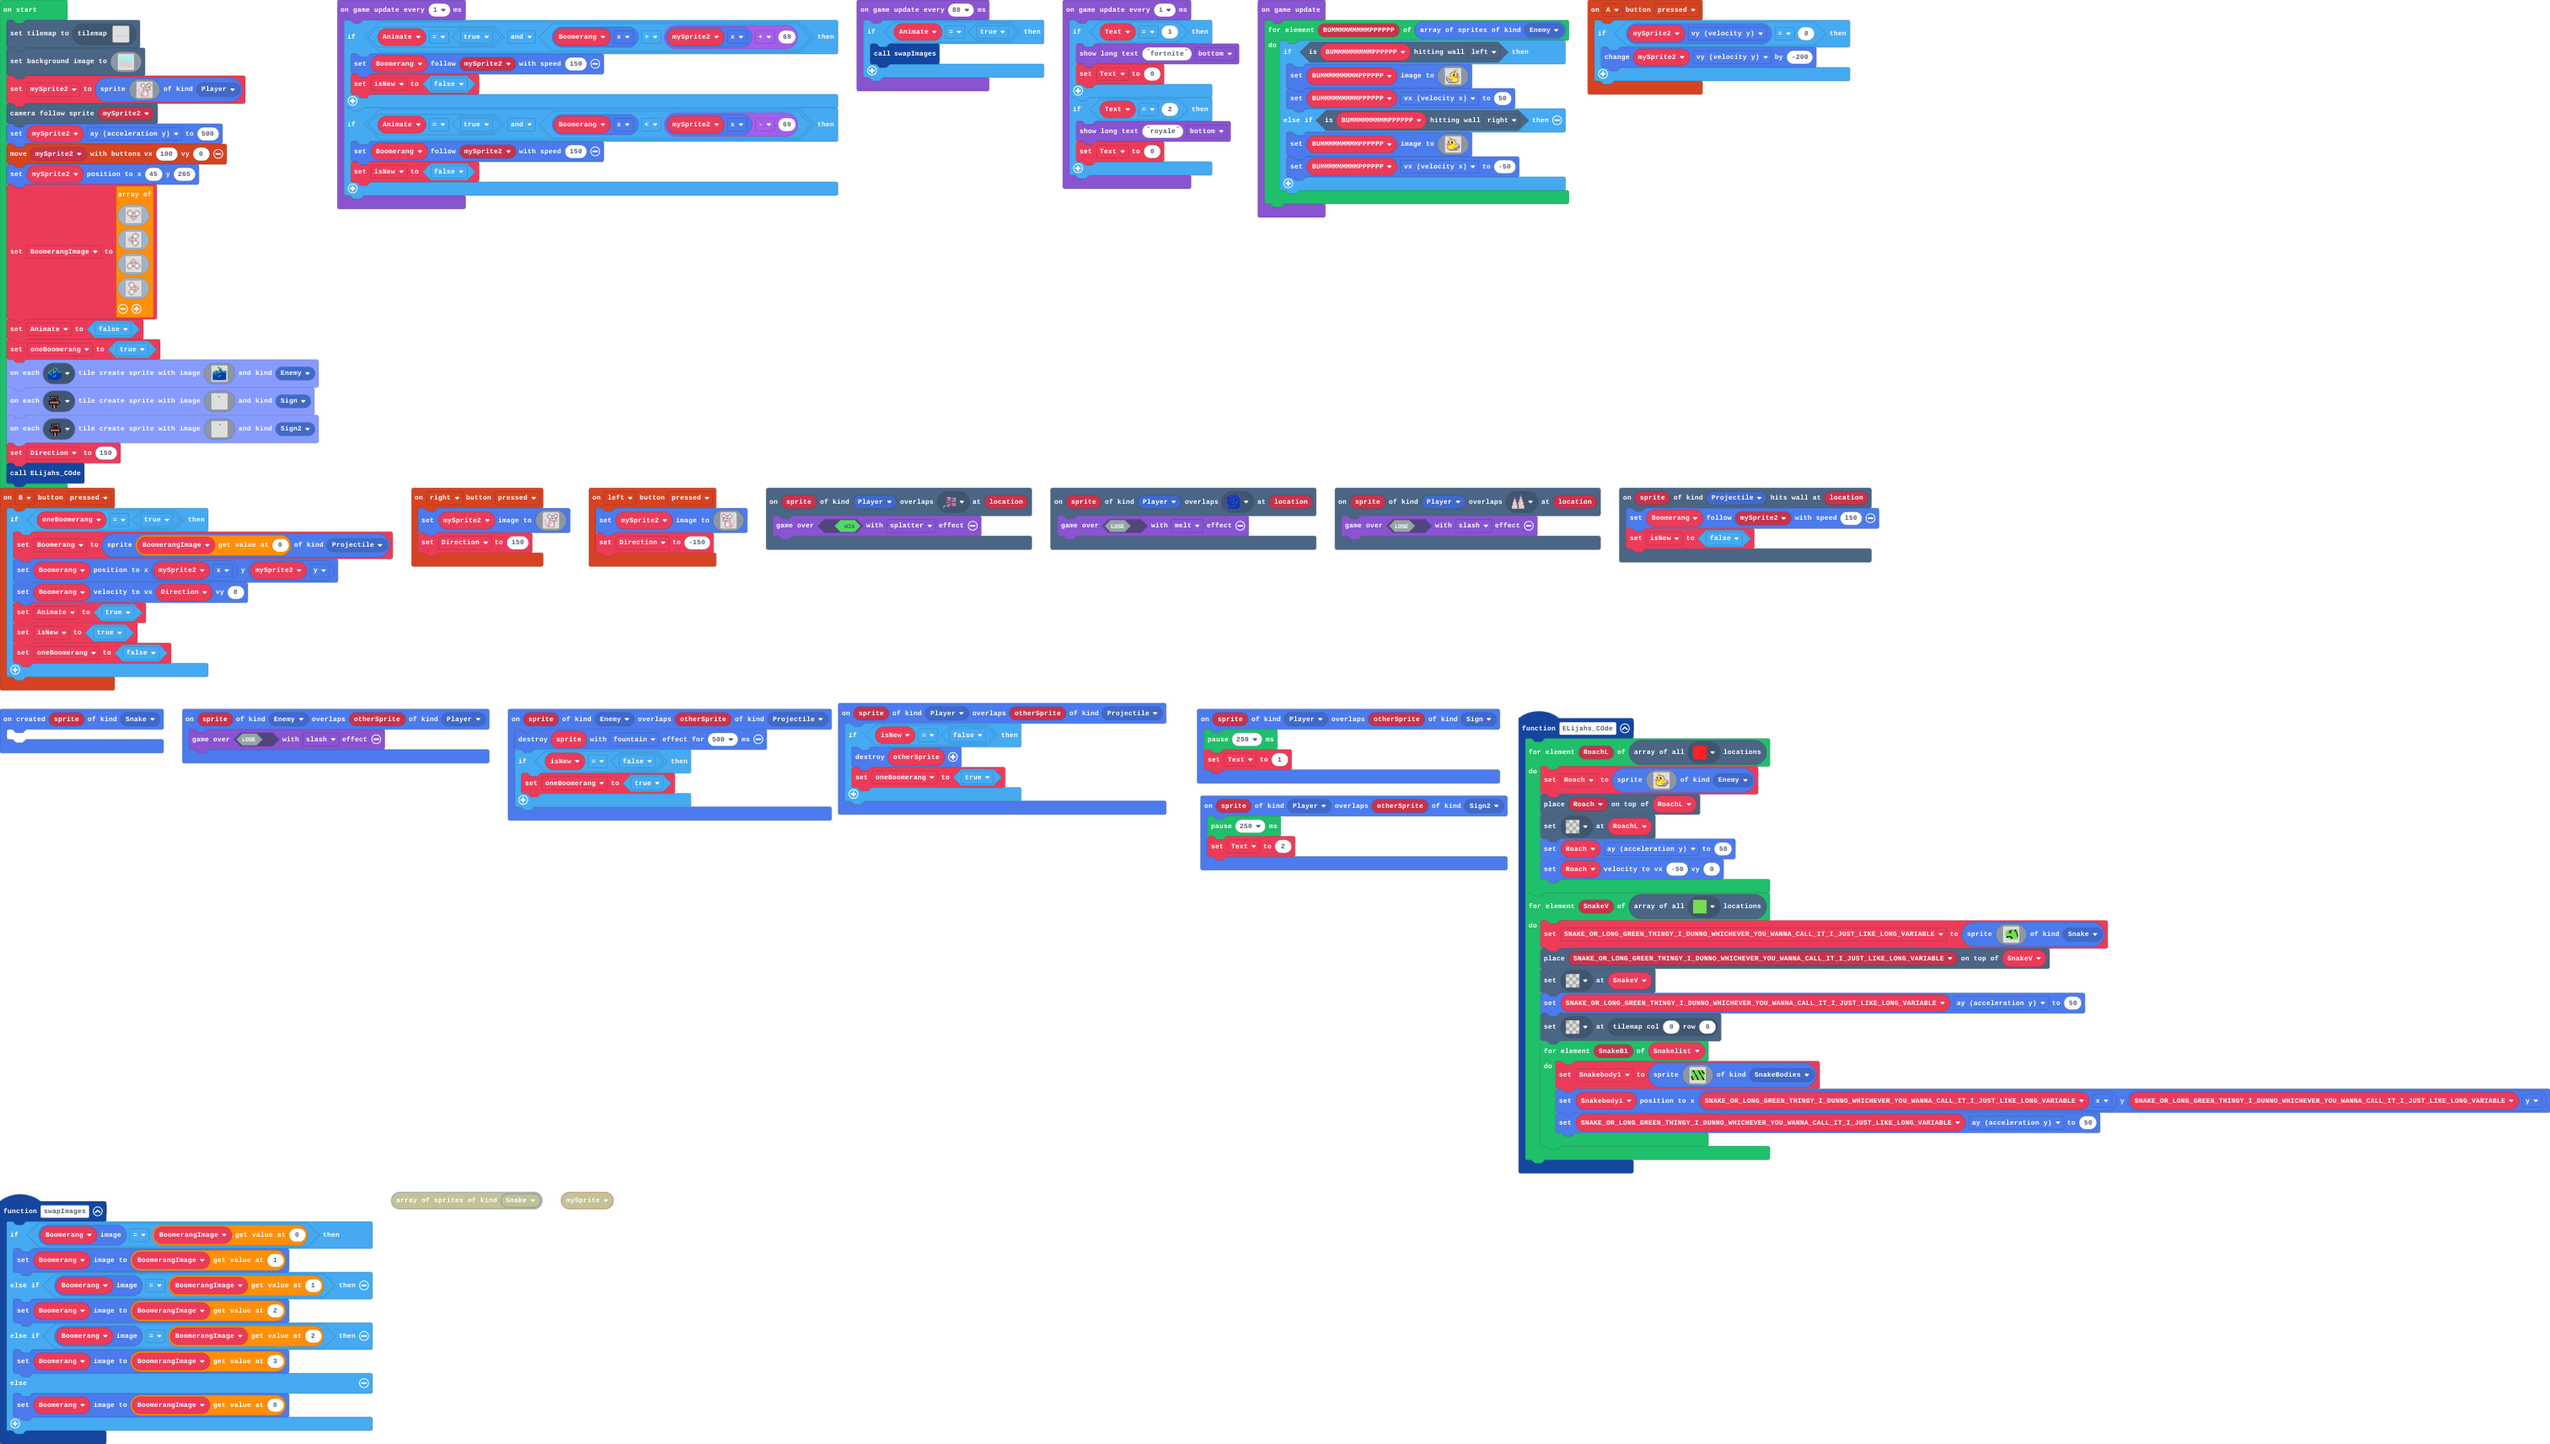
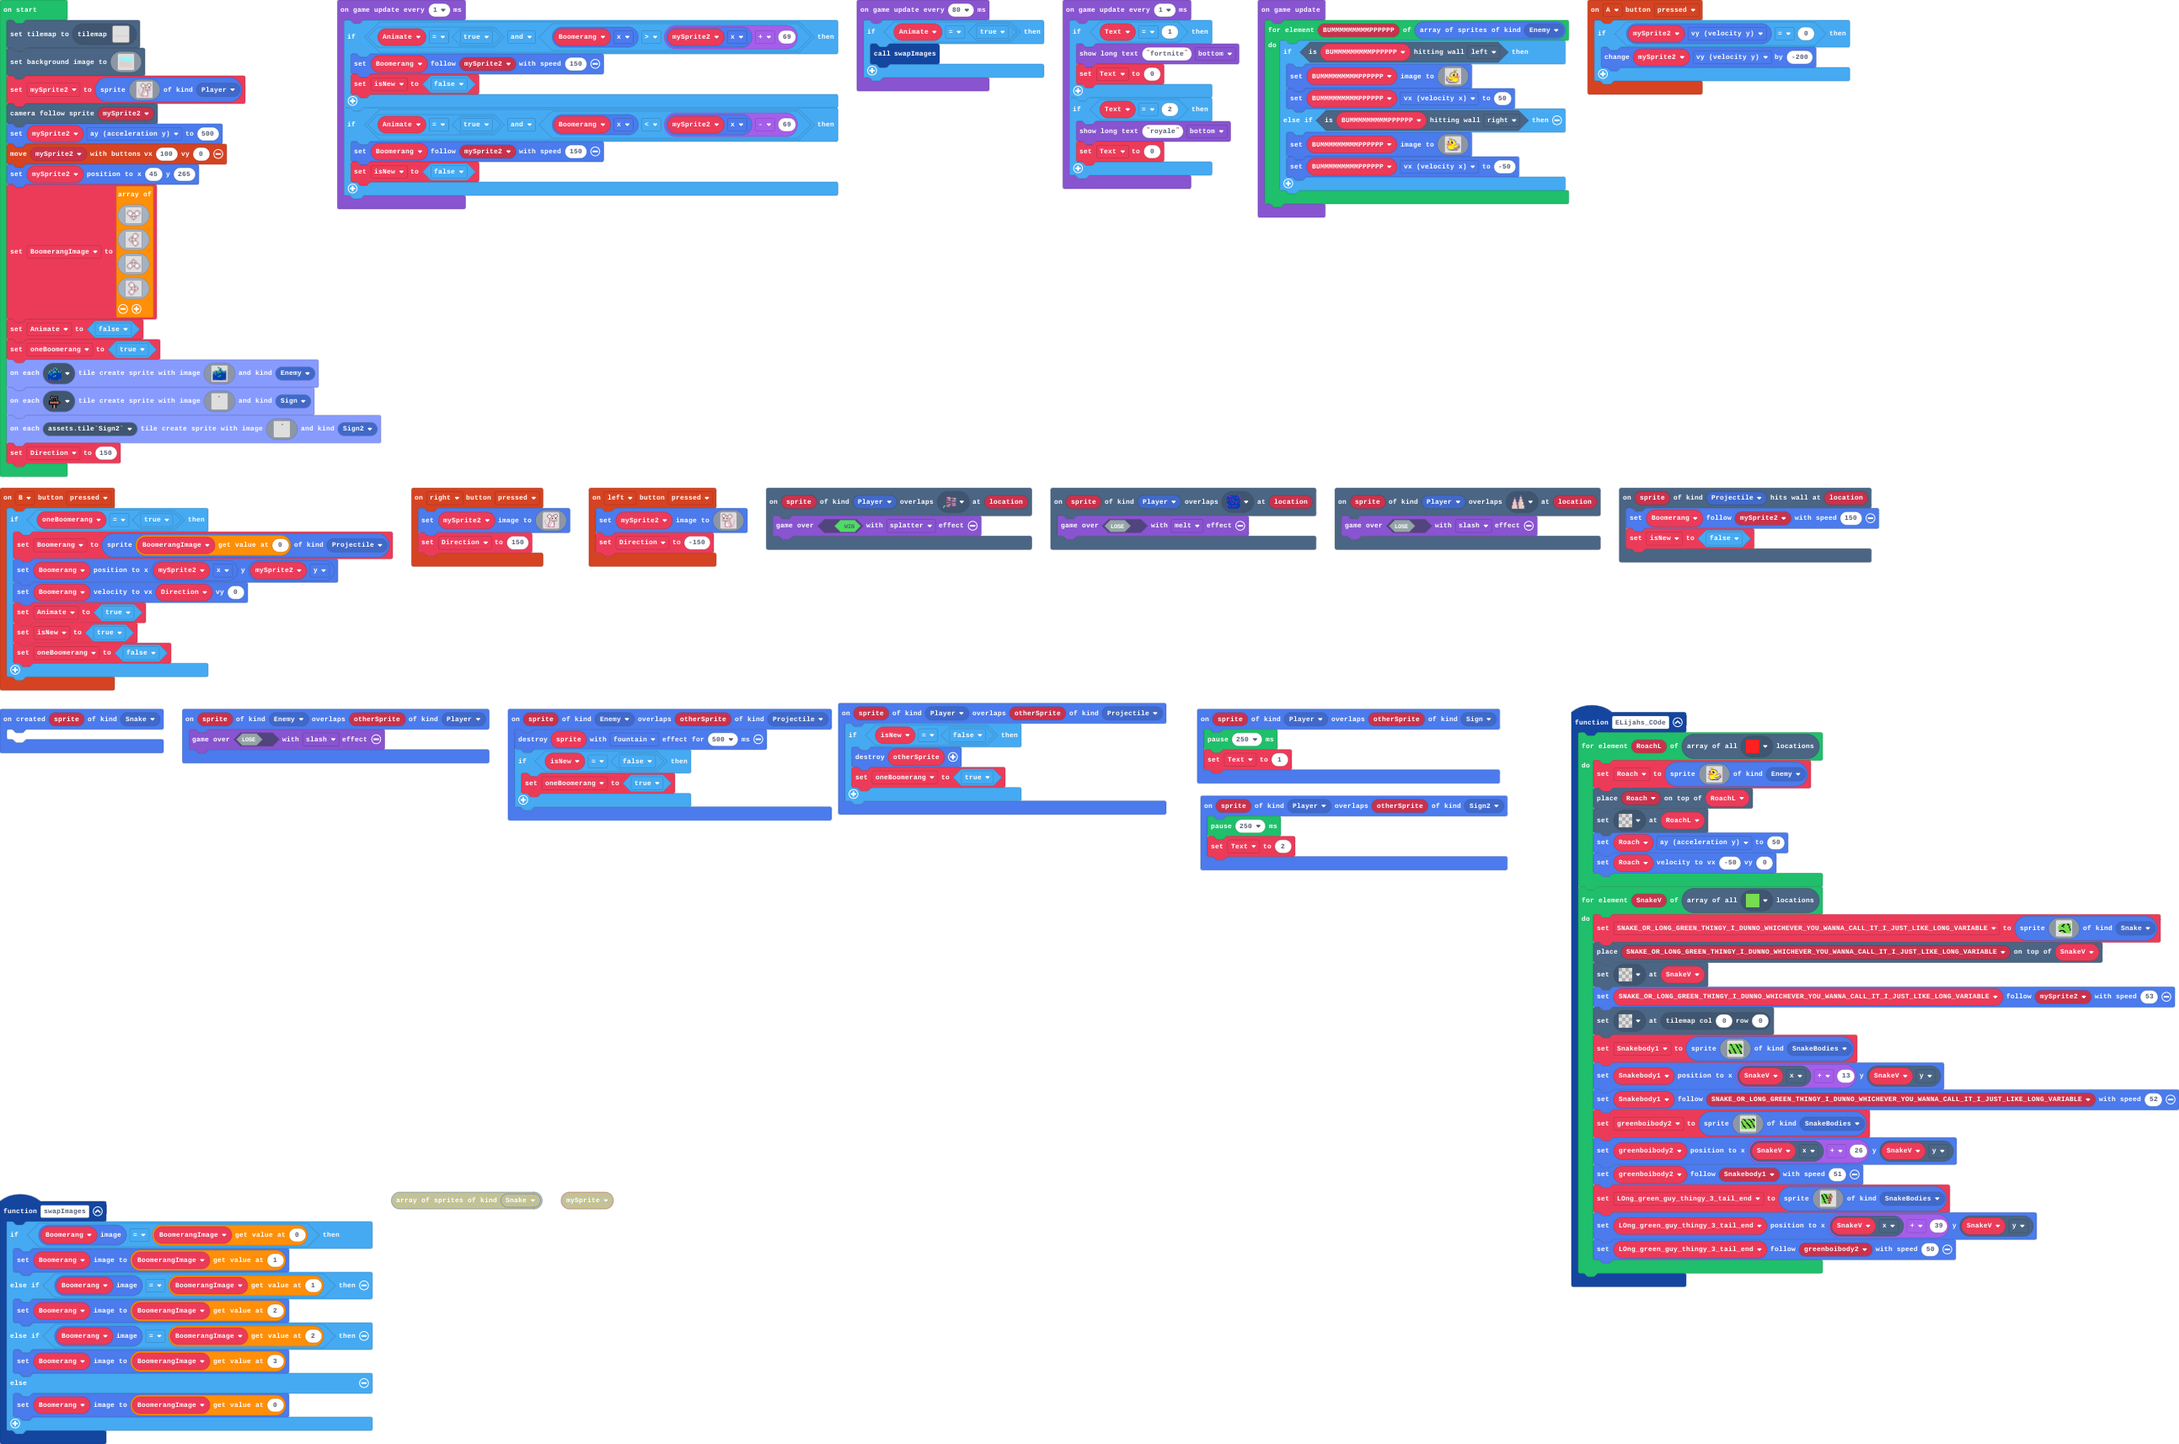
Update main.blocks, main.ts, tilemap.g.jres, tilemap.g.ts

Changed region(s): [[0.0, 0.0, 1.0, 0.8967], [0.0, 0.804, 0.2784, 1.0]]

diff --git a/tilemap.g.ts b/tilemap.g.ts
@@ -26,8 +26,6 @@ namespace myTiles {
     export const tile11 = image.ofBuffer(hex``);
     //% fixedInstance jres blockIdentity=images._tile
     export const tile12 = image.ofBuffer(hex``);
-    //% fixedInstance jres blockIdentity=images._tile
-    export const tile13 = image.ofBuffer(hex``);
 
     helpers._registerFactory("tilemap", function(name: string) {
         switch(helpers.stringTrim(name)) {
@@ -74,7 +72,7 @@ namespace myTiles {
 22222222222222222222222222222222222222222222222222
 `, [myTiles.transparency16,sprites.dungeon.floorLight0,sprites.dungeon.floorLight1,sprites.dungeon.floorLight4,myTiles.tile3,sprites.dungeon.floorLightMoss,sprites.dungeon.floorLight5,myTiles.tile7], TileScale.Sixteen);
             case "level0":
-            case "level3":return tiles.createTilemap(hex`3200140000000000000000000000000000000000000000000000000000000000000000000000000000000000000000000000000000000000000000000000000000000000000000000000000000000000000000000000000000000000000000000000000000000000000000000000000000000000000000000000000000000000000000000000000000000000000000000000000000000000000000000000000000000000000000000000000000000000000000000000000000000000000000000000000000000000000000000000000000000000000000000000000000000000000000000000000000000000000000000000000000000000000000000000000000000000000000000000000000000000000000000000000000000000000000000000000000000000000000000000000000000000000000000000000000000000000000000000000000000000000000000000000000000000000000000000000000000000000000000000000000000000000000000000000000000000000000000000000000000000000000000000000000000000000000000000000000000000000000000000000000000000000000000000000000000000000000000000000000000000000000000000000000000000000000000000000000000000000000000000000000000000000000000000000000000000000000000000000000000000000000000000000000000000000000000000000000000000000000000000000000000000000000000000000000000000000000000000000000000000000000000000000000000000000000000000000000000000000000000000000000000000000000000000000000000000000000000000000000000000000000000000000000000000000000000000000000000000000000000000000000000000000000000000000000000000000000000000000000000000000000000000000000000000000000000000000000000000000000000000000000000000000000000000000000000000000000000000000000000000000000000000000000000000000000000000000000000000000000000000000000000000000000000000000000000000000000000000000000000000000000000000000007000000000008000000000000000000000000000000000000000000000000000004010201030203020201020203030106010101010201010101010101010101010101010101010102010101010101010203010102020203020303030101020301010202020303030302030202020501010101010101010101010203030102030302010302010202020102010201020203020203010201030201010303010102010101010101010101010101020301030301020301010101`, img`
+            case "level3":return tiles.createTilemap(hex`3200140000000000000000000000000000000000000000000000000000000000000000000000000000000000000000000000000000000000000000000000000000000000000000000000000000000000000000000000000000000000000000000000000000000000000000000000000000000000000000000000000000000000000000000000000000000000000000000000000000000000000000000000000000000000000000000000000000000000000000000000000000000000000000000000000000000000000000000000000000000000000000000000000000000000000000000000000000000000000000000000000000000000000000000000000000000000000000000000000000000000000000000000000000000000000000000000000000000000000000000000000000000000000000000000000000000000000000000000000000000000000000000000000000000000000000000000000000000000000000000000000000000000000000000000000000000000000000000000000000000000000000000000000000000000000000000000000000000000000000000000000000000000000000000000000000000000000000000000000000000000000000000000000000000000000000000000000000000000000000000000000000000000000000000000000000000000000000000000000000000000000000000000000000000000000000000000000000000000000000000000000000000000000000000000000000000000000000000000000000000000000000000000000000000000000000000000000000000000000000000000000000000000000000000000000000000000000000000000000000000000000000000000000000000000000000000000000000000000000000000000000000000000000000000000000000000000000000000000000000000000000000000000000000000000000000000000000000000000000000000000000000000000000000000000000000000000000000000000000000000000000000000000000000000000000000000000000000000000000000000000000000000000000000000000000000000000000000000000000000000000000000000000000007000000000000000000000000000000000000000000000000000000000000000004010201030203020201020203030106010101010201010101010101010101010101010101010102010101010101010203010102020203020303030101020301010202020303030302030202020501010101010101010101010203030102030302010302010202020102010201020203020203010201030201010303010102010101010101010101010101020301030301020301010101`, img`
 ..................................................
 ..................................................
 ..................................................
@@ -95,7 +93,7 @@ namespace myTiles {
 22222222222222222222222222222222222222222222222222
 22222222222222222222222222222222222222222222222222
 22222222222222222222222222222222222222222222222222
-`, [myTiles.transparency16,sprites.dungeon.floorLight0,sprites.dungeon.floorLight1,sprites.dungeon.floorLight4,myTiles.tile3,sprites.dungeon.floorLightMoss,sprites.dungeon.floorLight5,myTiles.tile12,myTiles.tile13], TileScale.Sixteen);
+`, [myTiles.transparency16,sprites.dungeon.floorLight0,sprites.dungeon.floorLight1,sprites.dungeon.floorLight4,myTiles.tile3,sprites.dungeon.floorLightMoss,sprites.dungeon.floorLight5,myTiles.tile12], TileScale.Sixteen);
         }
         return null;
     })
@@ -127,8 +125,6 @@ namespace myTiles {
             case "tile11":return tile11;
             case "Sign":
             case "tile12":return tile12;
-            case "Sign2":
-            case "tile13":return tile13;
         }
         return null;
     })

diff --git a/main.ts b/main.ts
@@ -4,7 +4,6 @@ namespace SpriteKind {
     export const Sign = SpriteKind.create()
     export const Sign2 = SpriteKind.create()
 }
-let Snakelist: number[] = []
 scene.onOverlapTile(SpriteKind.Player, assets.tile`BadWater`, function (sprite, location) {
     game.over(false, effects.melt)
 })
@@ -67,13 +66,17 @@ function ELijahs_COde () {
         SNAKE_OR_LONG_GREEN_THINGY_I_DUNNO_WHICHEVER_YOU_WANNA_CALL_IT_I_JUST_LIKE_LONG_VARIABLE = sprites.create(assets.image`Snake Head`, SpriteKind.Snake)
         tiles.placeOnTile(SNAKE_OR_LONG_GREEN_THINGY_I_DUNNO_WHICHEVER_YOU_WANNA_CALL_IT_I_JUST_LIKE_LONG_VARIABLE, SnakeV)
         tiles.setTileAt(SnakeV, assets.tile`transparency16`)
-        SNAKE_OR_LONG_GREEN_THINGY_I_DUNNO_WHICHEVER_YOU_WANNA_CALL_IT_I_JUST_LIKE_LONG_VARIABLE.ay = 50
+        SNAKE_OR_LONG_GREEN_THINGY_I_DUNNO_WHICHEVER_YOU_WANNA_CALL_IT_I_JUST_LIKE_LONG_VARIABLE.follow(mySprite2, 53)
         tiles.setTileAt(tiles.getTileLocation(0, 0), assets.tile`transparency16`)
-        for (let SnakeB1 of Snakelist) {
-            Snakebody1 = sprites.create(assets.image`Greenthing body 1`, SpriteKind.SnakeBodies)
-            Snakebody1.setPosition(SNAKE_OR_LONG_GREEN_THINGY_I_DUNNO_WHICHEVER_YOU_WANNA_CALL_IT_I_JUST_LIKE_LONG_VARIABLE.x, SNAKE_OR_LONG_GREEN_THINGY_I_DUNNO_WHICHEVER_YOU_WANNA_CALL_IT_I_JUST_LIKE_LONG_VARIABLE.y)
-            SNAKE_OR_LONG_GREEN_THINGY_I_DUNNO_WHICHEVER_YOU_WANNA_CALL_IT_I_JUST_LIKE_LONG_VARIABLE.ay = 50
-        }
+        Snakebody1 = sprites.create(assets.image`Greenthing body 1`, SpriteKind.SnakeBodies)
+        Snakebody1.setPosition(SnakeV.x + 13, SnakeV.y)
+        Snakebody1.follow(SNAKE_OR_LONG_GREEN_THINGY_I_DUNNO_WHICHEVER_YOU_WANNA_CALL_IT_I_JUST_LIKE_LONG_VARIABLE, 52)
+        greenboibody2 = sprites.create(assets.image`LOng boi 2`, SpriteKind.SnakeBodies)
+        greenboibody2.setPosition(SnakeV.x + 26, SnakeV.y)
+        greenboibody2.follow(Snakebody1, 51)
+        LOng_green_guy_thingy_3_tail_end = sprites.create(assets.image`myImage`, SpriteKind.SnakeBodies)
+        LOng_green_guy_thingy_3_tail_end.setPosition(SnakeV.x + 39, SnakeV.y)
+        LOng_green_guy_thingy_3_tail_end.follow(greenboibody2, 50)
     }
 }
 controller.right.onEvent(ControllerButtonEvent.Pressed, function () {
@@ -99,6 +102,8 @@ scene.onHitWall(SpriteKind.Projectile, function (sprite, location) {
 sprites.onCreated(SpriteKind.Snake, function (sprite) {
 	
 })
+let LOng_green_guy_thingy_3_tail_end: Sprite = null
+let greenboibody2: Sprite = null
 let Snakebody1: Sprite = null
 let SNAKE_OR_LONG_GREEN_THINGY_I_DUNNO_WHICHEVER_YOU_WANNA_CALL_IT_I_JUST_LIKE_LONG_VARIABLE: Sprite = null
 let Roach: Sprite = null
@@ -267,7 +272,6 @@ tileUtil.createSpritesOnTiles(assets.tile`Sign2`, img`
     . . . . . . . . d . . . . . . . 
     `, SpriteKind.Sign2)
 Direction = 150
-ELijahs_COde()
 game.onUpdate(function () {
     for (let BUMMMMMMMMMPPPPPP of sprites.allOfKind(SpriteKind.Enemy)) {
         if (BUMMMMMMMMMPPPPPP.isHittingTile(CollisionDirection.Left)) {
